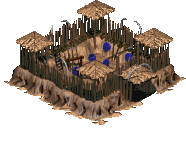
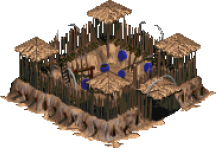
Cases casernes finies

diff --git a/world.py b/world.py
@@ -80,12 +80,22 @@ class World:
 
                 if mouse_action[0] and not collision:
 
-                    if self.hud.selected_tile["name"] == "caserne":
-                        ent = Caserne(render_pos, self.resource_manager)
-                        self.buildings[grid_pos[0]][grid_pos[1]] = ent
-                        self.buildings[grid_pos[0]+1][grid_pos[1]] = ent
-                        self.buildings[grid_pos[0]][grid_pos[1] + 1] = ent
-                        self.buildings[grid_pos[0]+1][grid_pos[1] + 1] = ent
+                    if self.hud.selected_tile["name"] == "caserne" :
+                        collision1 = self.world[grid_pos[0] + 1][grid_pos[1]]["collision"] or self.findUnitePos(
+                            grid_pos[0] + 1, grid_pos[1]) is not None
+                        collision2 = self.world[grid_pos[0]][grid_pos[1] + 1]["collision"] or self.findUnitePos(
+                            grid_pos[0], grid_pos[1] + 1) is not None
+                        collision3 = self.world[grid_pos[0] + 1][grid_pos[1] + 1]["collision"] or self.findUnitePos(
+                            grid_pos[0] + 1, grid_pos[1] + 1) is not None
+                        if not collision1 and not collision2 and not collision3 :
+                            ent = Caserne(grid_pos, self.resource_manager)
+                            self.buildings[grid_pos[0]][grid_pos[1]] = ent
+                            self.buildings[grid_pos[0]+1][grid_pos[1]] = ent
+                            self.buildings[grid_pos[0]][grid_pos[1] + 1] = ent
+                            self.buildings[grid_pos[0]+1][grid_pos[1] + 1] = ent
+                            self.world[grid_pos[0]+1][grid_pos[1]]["collision"] = True
+                            self.world[grid_pos[0]][grid_pos[1]+1]["collision"] = True
+                            self.world[grid_pos[0]+1][grid_pos[1]+1]["collision"] = True
                     elif self.hud.selected_tile["name"] == "house":
                         ent = House(render_pos, self.resource_manager)
                         self.buildings[grid_pos[0]][grid_pos[1]] = ent
@@ -111,7 +121,7 @@ class World:
                     self.hud.examined_tile = self.world[grid_pos[0]][grid_pos[1]]
 
                 if mouse_action[0] and (building is not None):
-                    self.examine_tile = grid_pos
+                    self.examine_tile = (building.pos[0]+1, building.pos[1]+1)
                     self.hud.examined_tile = building
 
                 # permet de sélectionner une unité
@@ -168,18 +178,24 @@ class World:
                 # draw buildings
                 building = self.buildings[x][y]
                 if building is not None:
-                    #if ... continue
-                    image = pygame.image.load("assets/batiments/" + building.name + ".png").convert_alpha()
-                    screen.blit(image,
-                                (render_pos[0] + self.grass_tiles.get_width() / 2 + camera.scroll.x,
+                    if(building == self.buildings[x+1][y+1] or building == self.buildings[x+1][y] or building == self.buildings[x][y+1]):
+                        continue
+                    else:
+                        correctif = 0
+                        if isinstance(building, Caserne) :
+                            correctif = -45
+                        image = pygame.image.load("assets/batiments/" + building.name + ".png").convert_alpha()
+                        screen.blit(image,
+                                (render_pos[0] + self.grass_tiles.get_width() / 2 + camera.scroll.x + correctif,
                                  render_pos[1] - (image.get_height() - TILE_SIZE) + camera.scroll.y))
-                    if self.examine_tile is not None:
-                        if (x == self.examine_tile[0]) and (y == self.examine_tile[1]):
-                            mask = pygame.mask.from_surface(image).outline()
-                            mask = [(x + render_pos[0] + self.grass_tiles.get_width() / 2 + camera.scroll.x,
-                                     y + render_pos[1] - (image.get_height() - TILE_SIZE) + camera.scroll.y)
-                                    for x, y in mask]
-                            pygame.draw.polygon(screen, (255, 255, 255), mask, 3)
+
+                        if self.examine_tile is not None:
+                            if (x == self.examine_tile[0]) and (y == self.examine_tile[1]):
+                                mask = pygame.mask.from_surface(image).outline()
+                                mask = [(x + render_pos[0] + self.grass_tiles.get_width() / 2 + camera.scroll.x + correctif,
+                                         y + render_pos[1] - (image.get_height() - TILE_SIZE) + camera.scroll.y)
+                                        for x, y in mask]
+                                pygame.draw.polygon(screen, (255, 255, 255), mask, 3)
         # dessine les unités
         for u in self.unites:
             render_pos = self.world[u.pos[0]][u.pos[1]]["render_pos"]
@@ -296,8 +312,8 @@ class World:
         # transform to grid coordinates
         grid_x = int(cart_x // TILE_SIZE)
         grid_y = int(cart_y // TILE_SIZE)
-        print(world_x)
-        print(world_y)
+        #print(world_x)
+        #print(world_y)
         return grid_x, grid_y
 
     def load_images(self):

diff --git a/hud.py b/hud.py
@@ -136,6 +136,7 @@ class Hud:
                         self.unite_bouton.image.set_alpha(150)
                     self.unite_bouton.draw(screen)
             else:
+                print(self.examined_tile)
                 img = self.images_terre[self.examined_tile["tile"]].copy()
                 draw_text(screen, str(self.examined_tile["ressource"]), 30, (255,255,255), (self.hud_info_rect.center[0], self.hud_info_rect.center[1]))
                 draw_text(screen, str(self.examined_tile["tile"]), 50, (0,255,255), (self.hud_info_rect.center[0] - 50, self.hud_info_rect.center[1]- 90))

diff --git a/buildings.py b/buildings.py
@@ -11,6 +11,7 @@ class Batiment:
         self.counter = 0
         self.place = place
         self.resource_manager.update_population_max(self.place)
+        self.pos = pos
 
 
 class Hdv(Batiment):
